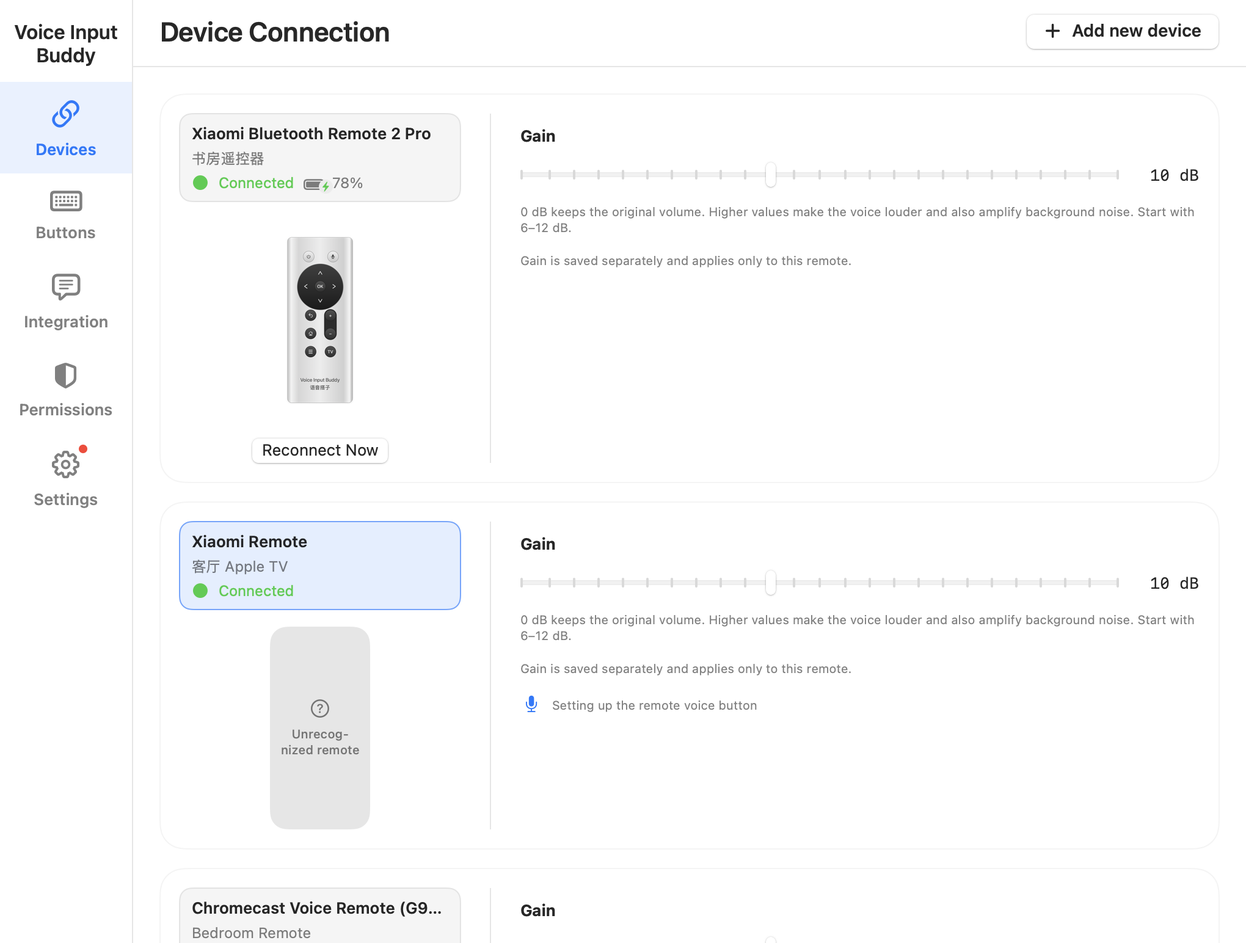
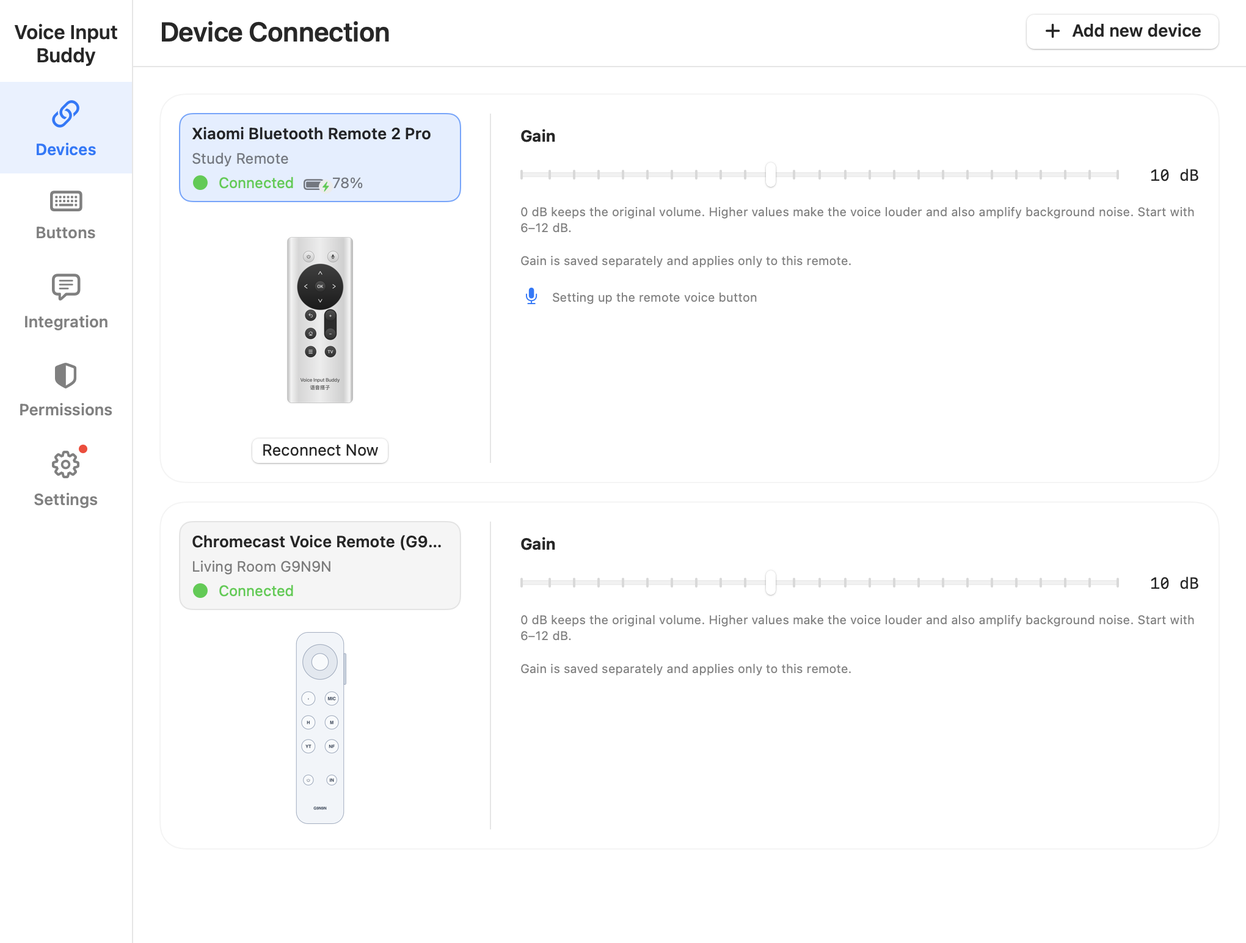
feat(website): order settings by sidebar menu and include complete 7-step wizard

diff --git a/pages/demo.js b/pages/demo.js
@@ -35,6 +35,14 @@ button.addEventListener('blur', stop);
   const galleryDataZh = {
     settings: [
       {
+        title: '设备连接',
+        badge: '多设备管理',
+        windowTitle: '设备连接 · Voice Input Buddy',
+        src: 'assets/screenshots/connection-zh.png',
+        alt: 'Voice Input Buddy 设备连接界面：小米与 Google G9N9N 遥控器卡片、连接状态、电量显示与麦克风独立增益滑块',
+        desc: '管理所有已配对的蓝牙遥控器（如小米遥控器、Google G9N9N），实时查看连接状态与电池电量；支持单独调节并保存每台遥控器的麦克风输入增益（0 dB 至 20 dB）。'
+      },
+      {
         title: '按键映射',
         badge: '核心按键映射',
         windowTitle: '按键映射 · Voice Input Buddy',
@@ -43,12 +51,12 @@ button.addEventListener('blur', stop);
         desc: '中央显示遥控器按键示意图，支持为电源键、确定键、方向键、返回键、主页键、菜单键与 TV 键分别指定单击、双击和长按动作，可绑定系统操作、自定义快捷键或常用语。'
       },
       {
-        title: '设备连接',
-        badge: '多设备管理',
-        windowTitle: '设备连接 · Voice Input Buddy',
-        src: 'assets/screenshots/connection-zh.png',
-        alt: 'Voice Input Buddy 设备连接界面：多台遥控器卡片、连接状态、电量显示与麦克风独立增益滑块',
-        desc: '管理所有已配对的蓝牙遥控器，实时查看连接状态、电池电量与充电指示；支持单独调节并保存每台遥控器的麦克风输入增益（0 dB 至 20 dB）。'
+        title: '常用语编辑',
+        badge: '常用语库管理',
+        windowTitle: '常用语调整 · Voice Input Buddy',
+        src: 'assets/screenshots/phrases-zh.png',
+        alt: 'Voice Input Buddy 常用语调整界面：遥控器五键分配、常用语库与短语编辑管理',
+        desc: '按键映射内置常用语面板管理，可为圆盘方向键与 OK 键自定义短语列表，支持中英文短语编辑、词库导入导出与五键灵活分配，高频语句一键即发。'
       },
       {
         title: '输入法集成',
@@ -59,20 +67,20 @@ button.addEventListener('blur', stop);
         desc: '提供豆包输入法、微信输入法、Typeless、Vokie、VoiceCursor 及其他自定义工具的专用配置向导入口，并可自由选择语音触发按键（Fn、Command、Option 等）与长按/点按模式。'
       },
       {
-        title: '常用语面板',
-        badge: '快速输入',
-        windowTitle: '常用语调整 · Voice Input Buddy',
-        src: 'assets/screenshots/phrases-zh.png',
-        alt: 'Voice Input Buddy 常用语调整界面：遥控器五键分配、常用语库与短语编辑管理',
-        desc: '通过遥控器圆盘方向键与 OK 键快速选择并输入预设常用语句，支持中英文短语自定义、导入导出备份与五键灵活分配，高频语句一键即发。'
-      },
-      {
         title: '权限与驱动',
         badge: '环境检测',
         windowTitle: '权限与环境 · Voice Input Buddy',
         src: 'assets/screenshots/permissions-zh.png',
         alt: 'Voice Input Buddy 权限与环境界面：蓝牙、输入监控、辅助功能权限与虚拟麦克风驱动状态',
         desc: '集中核对蓝牙、输入监控与辅助功能三项系统授权，自动监控 Voice Input Buddy Mic 虚拟麦克风驱动的加载状态，并附带直观的驱动安装与重启引导。'
+      },
+      {
+        title: '关于与更新',
+        badge: '版本与更新',
+        windowTitle: '关于与设置 · Voice Input Buddy',
+        src: 'assets/screenshots/about-zh.png',
+        alt: 'Voice Input Buddy 关于与设置界面：应用版本信息、自动检查更新、发布说明与通用卸载器',
+        desc: '查看当前 App 版本与架构（Apple 芯片 / Intel），支持通过 Sparkle 自动或手动检查更新并查看更新日志；提供开源许可证信息与通用卸载工具入口。'
       }
     ],
     wizard: [
@@ -85,7 +93,15 @@ button.addEventListener('blur', stop);
         desc: '首次打开应用时，向导逐项引导授权蓝牙、输入监控和辅助功能，确保遥控器正常通信与按键发送；左下角可随时切换中文或英文。'
       },
       {
-        title: '第 2 步 · 连接遥控器',
+        title: '第 2 步 · 设备类型',
+        badge: '向导 · 设备准备',
+        windowTitle: '设备类型 · 首次使用向导',
+        src: 'assets/screenshots/wizard-source-zh.png',
+        alt: '首次使用向导：选择控制设备类型，支持实体遥控器（小米、Google G9N9N 等）或手机输入伴侣',
+        desc: '选择你使用的硬件设备：支持小米蓝牙遥控器、Google G9N9N、Apple Siri Remote 等实体遥控器，或通过扫码使用手机作为控制与语音输入伴侣。'
+      },
+      {
+        title: '第 3 步 · 连接遥控器',
         badge: '向导 · 蓝牙配对',
         windowTitle: '连接遥控器 · 首次使用向导',
         src: 'assets/screenshots/wizard-remote-zh.png',
@@ -93,7 +109,7 @@ button.addEventListener('blur', stop);
         desc: '图文图解小米及兼容遥控器的蓝牙配对按键组合（长按 TV 键或 Home+Menu 键），靠近电脑自动发现并建立蓝牙通道。'
       },
       {
-        title: '第 3 步 · 按键测试',
+        title: '第 4 步 · 按键测试',
         badge: '向导 · 按键反馈',
         windowTitle: '按键测试 · 首次使用向导',
         src: 'assets/screenshots/wizard-controls-zh.png',
@@ -101,7 +117,7 @@ button.addEventListener('blur', stop);
         desc: '在遥控器上按下方向键或确定键，屏幕对应按键实时高亮响应，快速确认 Mac 已成功接收实体按键，避免按键占用冲突。'
       },
       {
-        title: '第 4 步 · 驱动检测',
+        title: '第 5 步 · 驱动检测',
         badge: '向导 · 声卡检查',
         windowTitle: '驱动检查 · 首次使用向导',
         src: 'assets/screenshots/wizard-driver-zh.png',
@@ -109,7 +125,7 @@ button.addEventListener('blur', stop);
         desc: '自动检测并配置随安装包安装的 Voice Input Buddy Mic 虚拟声卡驱动，固定音频输出路径，无需手动调整系统声音设备。'
       },
       {
-        title: '第 5 步 · 输入工具',
+        title: '第 6 步 · 输入工具',
         badge: '向导 · 工具匹配',
         windowTitle: '输入工具 · 首次使用向导',
         src: 'assets/screenshots/wizard-tool-zh.png',
@@ -117,7 +133,7 @@ button.addEventListener('blur', stop);
         desc: '选择你喜爱的输入法或听写工具，向导右侧分步骤提供截屏指引：从输入法麦克风选择到语音快捷键设置，轻松完成对接。'
       },
       {
-        title: '第 6 步 · 试说与校准',
+        title: '第 7 步 · 试说与校准',
         badge: '向导 · 录音测试',
         windowTitle: '语音测试 · 首次使用向导',
         src: 'assets/screenshots/wizard-test-zh.png',
@@ -130,6 +146,14 @@ button.addEventListener('blur', stop);
   const galleryDataEn = {
     settings: [
       {
+        title: 'Devices',
+        badge: 'Multi-device',
+        windowTitle: 'Devices · Voice Input Buddy',
+        src: 'assets/screenshots/connection-en.png',
+        alt: 'Voice Input Buddy Devices interface: Xiaomi and Google G9N9N remote cards, connection status, battery levels, and independent microphone gain sliders',
+        desc: 'Manage connected Bluetooth remotes (Xiaomi, Google G9N9N), check live battery percentages and charging states, and adjust individual microphone gain (0 dB to 20 dB).'
+      },
+      {
         title: 'Button Mapping',
         badge: 'Core Mapping',
         windowTitle: 'Button Mapping · Voice Input Buddy',
@@ -138,12 +162,12 @@ button.addEventListener('blur', stop);
         desc: 'The central remote diagram shows each physical button, supporting single-press, double-press, and long-press shortcuts for Power, OK, Navigation, Back, Home, Menu, and TV keys.'
       },
       {
-        title: 'Devices',
-        badge: 'Multi-device',
-        windowTitle: 'Devices · Voice Input Buddy',
-        src: 'assets/screenshots/connection-en.png',
-        alt: 'Voice Input Buddy Devices interface: remote cards, connection status, battery levels, and independent microphone gain sliders',
-        desc: 'Manage connected Bluetooth remotes, check live battery percentages and charging states, and adjust individual microphone gain (0 dB to 20 dB) for each remote.'
+        title: 'Common Phrases',
+        badge: 'Phrase Editor',
+        windowTitle: 'Common Phrases · Voice Input Buddy',
+        src: 'assets/screenshots/phrases-en.png',
+        alt: 'Voice Input Buddy Common Phrases interface: 5-way directional pad assignment and custom phrase library editor',
+        desc: 'Edit common phrase libraries inside button mapping. Assign custom phrases to directional buttons and OK button for instant text insertion, with backup import/export.'
       },
       {
         title: 'Voice Tools',
@@ -154,20 +178,20 @@ button.addEventListener('blur', stop);
         desc: 'Guided setup for Doubao, WeType, Typeless, Vokie, VoiceCursor, and custom tools, with flexible trigger key options (Fn/Globe, Command, Option).'
       },
       {
-        title: 'Common Phrases',
-        badge: 'Quick Typing',
-        windowTitle: 'Common Phrases · Voice Input Buddy',
-        src: 'assets/screenshots/phrases-en.png',
-        alt: 'Voice Input Buddy Common Phrases interface: 5-way directional pad assignment and custom phrase library',
-        desc: 'Assign phrases to directional buttons and the OK button for instant text insertion, with custom phrase editing and backup import/export.'
-      },
-      {
         title: 'Permissions & Driver',
         badge: 'System Environment',
         windowTitle: 'Permissions & Driver · Voice Input Buddy',
         src: 'assets/screenshots/permissions-en.png',
         alt: 'Voice Input Buddy Permissions interface: Bluetooth, Input Monitoring, Accessibility permissions and virtual microphone driver status',
         desc: 'Centralized overview of Bluetooth, Input Monitoring, and Accessibility permissions, along with the status and instructions for the Voice Input Buddy Mic driver.'
+      },
+      {
+        title: 'About & Updates',
+        badge: 'Version & Updates',
+        windowTitle: 'About & Settings · Voice Input Buddy',
+        src: 'assets/screenshots/about-en.png',
+        alt: 'Voice Input Buddy About interface: application version, Sparkle automatic updates, release notes, and universal uninstaller',
+        desc: 'Check app version and architecture (Apple silicon / Intel), manage automatic Sparkle updates, inspect release notes, and access the uninstaller.'
       }
     ],
     wizard: [
@@ -180,7 +204,15 @@ button.addEventListener('blur', stop);
         desc: 'Step-by-step guidance to authorize Bluetooth, Input Monitoring, and Accessibility permissions, ensuring reliable communication and key posting.'
       },
       {
-        title: 'Step 2 · Connect Remote',
+        title: 'Step 2 · Device Type',
+        badge: 'Wizard · Device Choice',
+        windowTitle: 'Control Source · Setup Wizard',
+        src: 'assets/screenshots/wizard-source-en.png',
+        alt: 'Setup Wizard: Select control hardware, supporting physical remotes (Xiaomi, Google G9N9N) or phone companion',
+        desc: 'Select your preferred control hardware: physical remotes such as Xiaomi, Google G9N9N, Apple Siri Remote, or a mobile phone companion via QR code.'
+      },
+      {
+        title: 'Step 3 · Connect Remote',
         badge: 'Wizard · Pairing',
         windowTitle: 'Connect Remote · Setup Wizard',
         src: 'assets/screenshots/wizard-remote-en.png',
@@ -188,7 +220,7 @@ button.addEventListener('blur', stop);
         desc: 'Illustrated instructions for Bluetooth pairing key combinations on Xiaomi and compatible remotes, discovering and pairing automatically.'
       },
       {
-        title: 'Step 3 · Button Test',
+        title: 'Step 4 · Button Test',
         badge: 'Wizard · Button Check',
         windowTitle: 'Button Test · Setup Wizard',
         src: 'assets/screenshots/wizard-controls-en.png',
@@ -196,7 +228,7 @@ button.addEventListener('blur', stop);
         desc: 'Press directional or OK buttons on the remote to see corresponding highlights on screen, confirming physical button delivery without key remapper conflicts.'
       },
       {
-        title: 'Step 4 · Driver Check',
+        title: 'Step 5 · Driver Check',
         badge: 'Wizard · Audio Ready',
         windowTitle: 'Driver Check · Setup Wizard',
         src: 'assets/screenshots/wizard-driver-en.png',
@@ -204,7 +236,7 @@ button.addEventListener('blur', stop);
         desc: 'Automatically checks and routes audio through the bundled Voice Input Buddy Mic driver, locking in dedicated virtual microphone output.'
       },
       {
-        title: 'Step 5 · Voice Tool',
+        title: 'Step 6 · Voice Tool',
         badge: 'Wizard · Tool Setup',
         windowTitle: 'Input Tool · Setup Wizard',
         src: 'assets/screenshots/wizard-tool-en.png',
@@ -212,7 +244,7 @@ button.addEventListener('blur', stop);
         desc: 'Choose your preferred input method or dictation tool, with step-by-step screenshots guiding microphone selection and voice shortcut keys.'
       },
       {
-        title: 'Step 6 · Voice Test & Gain',
+        title: 'Step 7 · Voice Test & Gain',
         badge: 'Wizard · Speech Test',
         windowTitle: 'Voice Test · Setup Wizard',
         src: 'assets/screenshots/wizard-test-en.png',

diff --git a/pages/index.html b/pages/index.html
@@ -33,22 +33,22 @@
 <section class="how section" id="how"><div class="wrap"><p class="eyebrow">工作原理</p><h2 class="section-title">搭一座桥，<br>让硬件和输入工具合作。</h2><div class="flow"><div><span>①</span><h3>遥控器</h3><p>麦克风音频 + 按键</p></div><b aria-hidden="true">→</b><div class="flow-buddy"><span>②</span><h3>Voice Input Buddy</h3><p>解码音频 · 触发快捷键</p></div><b aria-hidden="true">→</b><div><span>③</span><h3>输入法 / 听写工具</h3><p>识别声音 · 写入文本</p></div></div><p class="explanation">遥控器通过蓝牙传来声音，语音搭子解码后送入虚拟麦克风，同时发送对应的语音快捷键。识别、实时文字与文本修正由输入工具完成；语音搭子本身不运行识别模型。</p></div></section>
 <section class="section wrap interface-section" id="interface" aria-labelledby="interface-title">
   <div class="interface-heading">
-    <div><p class="eyebrow">macOS 原生界面</p><h2 class="section-title" id="interface-title">直观清晰，每项设置都在手边。</h2><p class="lead-sub">原生 SwiftUI 精心打造，从按键动作映射、多设备管理，到主流输入法集成与常用语速选，一目了然。</p></div>
+    <div><p class="eyebrow">macOS 原生界面</p><h2 class="section-title" id="interface-title">直观清晰，每项设置都在手边。</h2><p class="lead-sub">原生 SwiftUI 精心打造，从设备连接、按键动作映射、常用语编辑，到主流输入法集成与关于更新，一目了然。</p></div>
     <div class="gallery-category-switch" role="tablist" aria-label="界面展示分类">
-      <button class="category-btn is-active" type="button" role="tab" aria-selected="true" data-track="settings">主程序界面 (5)</button>
-      <button class="category-btn" type="button" role="tab" aria-selected="false" data-track="wizard">新手设置向导 (6)</button>
+      <button class="category-btn is-active" type="button" role="tab" aria-selected="true" data-track="settings">主程序界面 (6)</button>
+      <button class="category-btn" type="button" role="tab" aria-selected="false" data-track="wizard">新手设置向导 (7)</button>
     </div>
   </div>
   <div class="cathedral-gallery">
     <div class="gallery-stage-container" role="region" aria-label="3D 界面画廊">
       <button class="stage-nav stage-prev" type="button" aria-label="上一张界面截图">‹</button>
       <div class="gallery-stage" id="gallery-stage" tabindex="0" role="region" aria-label="界面展示舞台">
-        <div class="stage-slide slide-active" role="group" aria-label="按键映射 (1/5)">
+        <div class="stage-slide slide-active" role="group" aria-label="设备连接 (1/6)">
           <div class="window-top" aria-hidden="true">
             <div class="window-dots"><i></i><i></i><i></i></div>
-            <span class="window-title">按键映射 · Voice Input Buddy</span>
+            <span class="window-title">设备连接 · Voice Input Buddy</span>
           </div>
-          <img src="assets/screenshots/mapping-zh.png" alt="Voice Input Buddy 按键映射设置界面：可视化遥控器按键映射，支持单击、双击、长按与自定义快捷键" width="1020" height="772" loading="eager">
+          <img src="assets/screenshots/connection-zh.png" alt="Voice Input Buddy 设备连接界面：小米与 Google G9N9N 遥控器卡片、连接状态、电量显示与麦克风独立增益滑块" width="1020" height="772" loading="eager">
         </div>
       </div>
       <button class="stage-nav stage-next" type="button" aria-label="下一张界面截图">›</button>
@@ -56,10 +56,10 @@
     <div class="gallery-indicators" id="gallery-indicators" role="tablist" aria-label="截图快速选择"></div>
     <div class="gallery-caption-card" aria-live="polite">
       <div class="caption-header">
-        <span class="caption-badge" id="caption-badge">核心按键映射</span>
-        <h3 class="caption-title" id="caption-title">按键映射</h3>
+        <span class="caption-badge" id="caption-badge">多设备管理</span>
+        <h3 class="caption-title" id="caption-title">设备连接</h3>
       </div>
-      <p class="caption-desc" id="caption-desc">中央显示遥控器按键示意图，支持为电源键、确定键、方向键、返回键、主页键、菜单键与 TV 键分别指定单击、双击和长按动作，可绑定系统操作、自定义快捷键或常用语。</p>
+      <p class="caption-desc" id="caption-desc">管理所有已配对的蓝牙遥控器（如小米遥控器、Google G9N9N），实时查看连接状态与电池电量；支持单独调节并保存每台遥控器的麦克风输入增益（0 dB 至 20 dB）。</p>
       <div class="caption-hint">
         <span>💡 点击中央界面可全屏放大；可使用键盘方向键 ← / → 或左右拖拽滑动切换。</span>
       </div>
@@ -71,7 +71,7 @@
         <span class="lightbox-title" id="lightbox-title">界面预览</span>
         <button class="lightbox-close" type="button" aria-label="关闭">✕</button>
       </div>
-      <img id="lightbox-img" src="assets/screenshots/mapping-zh.png" alt="界面大图预览" width="1020" height="772">
+      <img id="lightbox-img" src="assets/screenshots/connection-zh.png" alt="界面大图预览" width="1020" height="772">
     </div>
   </dialog>
 </section>

diff --git a/pages/index.en.html b/pages/index.en.html
@@ -33,22 +33,22 @@
 <section class="how section" id="how"><div class="wrap"><p class="eyebrow">HOW IT WORKS</p><h2 class="section-title">A bridge between your hardware<br>and your input tool.</h2><div class="flow"><div><span>①</span><h3>Your remote</h3><p>Microphone audio + buttons</p></div><b aria-hidden="true">→</b><div class="flow-buddy"><span>②</span><h3>Voice Input Buddy</h3><p>Decode audio · Trigger shortcuts</p></div><b aria-hidden="true">→</b><div><span>③</span><h3>Input method / dictation tool</h3><p>Recognize speech · Enter text</p></div></div><p class="explanation">Your remote sends audio over Bluetooth. Voice Input Buddy decodes it, routes it into a virtual microphone, and triggers the voice shortcut. Recognition, live text, and corrections come from the input tool; Buddy does not run a speech-recognition model.</p></div></section>
 <section class="section wrap interface-section" id="interface" aria-labelledby="interface-title">
   <div class="interface-heading">
-    <div><p class="eyebrow">APP INTERFACE</p><h2 class="section-title" id="interface-title">Intuitive and clear. Every setting within reach.</h2><p class="lead-sub">Thoughtfully crafted with native SwiftUI. Easily map button actions, manage multiple remotes, connect favorite voice tools, and insert phrases with radial controls.</p></div>
+    <div><p class="eyebrow">APP INTERFACE</p><h2 class="section-title" id="interface-title">Intuitive and clear. Every setting within reach.</h2><p class="lead-sub">Thoughtfully crafted with native SwiftUI. Easily manage connected devices, map physical button actions, edit custom phrases, and configure voice tool integrations.</p></div>
     <div class="gallery-category-switch" role="tablist" aria-label="Interface category">
-      <button class="category-btn is-active" type="button" role="tab" aria-selected="true" data-track="settings">Main Settings (5)</button>
-      <button class="category-btn" type="button" role="tab" aria-selected="false" data-track="wizard">Setup Wizard (6)</button>
+      <button class="category-btn is-active" type="button" role="tab" aria-selected="true" data-track="settings">Main Settings (6)</button>
+      <button class="category-btn" type="button" role="tab" aria-selected="false" data-track="wizard">Setup Wizard (7)</button>
     </div>
   </div>
   <div class="cathedral-gallery">
     <div class="gallery-stage-container" role="region" aria-label="3D Interface Gallery">
       <button class="stage-nav stage-prev" type="button" aria-label="Previous screenshot">‹</button>
       <div class="gallery-stage" id="gallery-stage" tabindex="0" role="region" aria-label="Interface stage">
-        <div class="stage-slide slide-active" role="group" aria-label="Button Mapping (1/5)">
+        <div class="stage-slide slide-active" role="group" aria-label="Devices (1/6)">
           <div class="window-top" aria-hidden="true">
             <div class="window-dots"><i></i><i></i><i></i></div>
-            <span class="window-title">Button Mapping · Voice Input Buddy</span>
+            <span class="window-title">Devices · Voice Input Buddy</span>
           </div>
-          <img src="assets/screenshots/mapping-en.png" alt="Voice Input Buddy Button Mapping interface: visual remote layout mapping single, double, and long press shortcuts" width="1020" height="772" loading="eager">
+          <img src="assets/screenshots/connection-en.png" alt="Voice Input Buddy Devices interface: Xiaomi and Google G9N9N remote cards, connection status, battery levels, and independent microphone gain sliders" width="1020" height="772" loading="eager">
         </div>
       </div>
       <button class="stage-nav stage-next" type="button" aria-label="Next screenshot">›</button>
@@ -56,10 +56,10 @@
     <div class="gallery-indicators" id="gallery-indicators" role="tablist" aria-label="Quick slide selection"></div>
     <div class="gallery-caption-card" aria-live="polite">
       <div class="caption-header">
-        <span class="caption-badge" id="caption-badge">Core Mapping</span>
-        <h3 class="caption-title" id="caption-title">Button Mapping</h3>
+        <span class="caption-badge" id="caption-badge">Multi-device</span>
+        <h3 class="caption-title" id="caption-title">Devices</h3>
       </div>
-      <p class="caption-desc" id="caption-desc">The central remote diagram shows each physical button, supporting single-press, double-press, and long-press shortcuts for Power, OK, Navigation, Back, Home, Menu, and TV keys.</p>
+      <p class="caption-desc" id="caption-desc">Manage connected Bluetooth remotes (Xiaomi, Google G9N9N), check live battery percentages and charging states, and adjust individual microphone gain (0 dB to 20 dB).</p>
       <div class="caption-hint">
         <span>💡 Click active window for full-screen preview; use ← / → arrow keys or swipe horizontally to navigate.</span>
       </div>
@@ -71,7 +71,7 @@
         <span class="lightbox-title" id="lightbox-title">Interface Preview</span>
         <button class="lightbox-close" type="button" aria-label="Close">✕</button>
       </div>
-      <img id="lightbox-img" src="assets/screenshots/mapping-en.png" alt="High-resolution interface preview" width="1020" height="772">
+      <img id="lightbox-img" src="assets/screenshots/connection-en.png" alt="High-resolution interface preview" width="1020" height="772">
     </div>
   </dialog>
 </section>

diff --git a/Sources/VoiceInputBuddy/App/Testing/SettingsScreenshotRenderer.swift b/Sources/VoiceInputBuddy/App/Testing/SettingsScreenshotRenderer.swift
@@ -90,18 +90,15 @@ enum SettingsScreenshotRenderer {
             )
             settings.updateRemoteProfileModel(xiaomiID, model: .rc003)
             settings.bindHIDFingerprint("settings-screenshot-xiaomi", to: xiaomiID)
-            let appleID = settings.registerAppleSiriRemote(fingerprint: "settings-screenshot-apple-remote")
-            settings.updateRemoteProfileModel(appleID, model: .appleSiriRemoteA2854)
             let chromecastID = settings.registerChromecastRemote()
-            settings.selectRemoteProfile(appleID)
+            settings.selectRemoteProfile(xiaomiID)
             remoteCardSystemNames = [
-                xiaomiID: "书房遥控器",
-                appleID: "客厅 Apple TV",
-                chromecastID: "Bedroom Remote",
+                xiaomiID: language == .simplifiedChinese ? "书房遥控器" : "Study Remote",
+                chromecastID: language == .simplifiedChinese ? "客厅 G9N9N" : "Living Room G9N9N",
             ]
             remoteCardBatteryLevels = [
                 xiaomiID: 78,
-                chromecastID: 42,
+                chromecastID: 64,
             ]
             remoteCardPowerStates = [
                 xiaomiID: .charging,

diff --git a/scripts/generate-website-screenshots.py b/scripts/generate-website-screenshots.py
@@ -11,15 +11,17 @@ APP_PATH = ROOT / "dist/Voice Input Buddy.app/Contents/MacOS/VoiceInputBuddy"
 OUTPUT_DIR = ROOT / "pages/assets/screenshots"
 
 SETTINGS_SECTIONS = [
-    ("mapping", "mapping-1020x772.png", "mapping"),
     ("connection", "connection-1020x772.png", "connection"),
-    ("integration", "integration-1020x772.png", "integration"),
+    ("mapping", "mapping-1020x772.png", "mapping"),
     ("commonPhrases", "commonPhrases-1020x772.png", "phrases"),
+    ("integration", "integration-1020x772.png", "integration"),
     ("permissions", "permissions-1020x772.png", "permissions"),
+    ("about", "about-1020x772.png", "about"),
 ]
 
 ONBOARDING_STEPS = [
     ("01-permissions.png", "wizard-permissions"),
+    ("02-control-source.png", "wizard-source"),
     ("03-remote.png", "wizard-remote"),
     ("04-controls.png", "wizard-controls"),
     ("05-audio.png", "wizard-driver"),

diff --git a/docs/website.md b/docs/website.md
@@ -14,7 +14,7 @@ python3 -m http.server 8765 --directory pages
 
 页面中的麦克风按钮示意仅改变本地显示，不申请麦克风权限、不录音，也不发起网络请求；页面及视频资源加载仍会产生正常 HTTP 请求。网站不使用分析或追踪脚本。下载链接指向 GitHub 最新 Release。
 
-中英文页面的 `#interface` 区域提供程序界面的 3D 画廊（Cathedral 效果）交互式展示，分为“主程序界面”（按键映射、设备连接、输入法集成、常用语面板、权限与驱动）与“新手设置向导”（系统权限、连接遥控器、按键测试、驱动检查、输入工具、试说与校准）两个分类。支持 3D 舞台层叠切换、左右拖拽/手势、键盘方向键切换及点击全屏放大查看高清细节。截图资产位于 `pages/assets/screenshots/`，包含中英文版本。可通过 `python3 scripts/generate-website-screenshots.py` 自动由 Debug App 渲染设置窗口与向导各步骤，并无损优化 PNG。
+中英文页面的 `#interface` 区域提供程序界面的 3D 画廊（Cathedral 效果）交互式展示，分为“主程序界面”（按左侧菜单从上到下展示：设备连接、按键映射、常用语编辑、输入法集成、权限与驱动、关于与更新，共 6 张，设备连接卡片展示小米与 Google G9N9N 遥控器）与“新手设置向导”（系统权限、设备类型、连接遥控器、按键测试、驱动检查、输入工具、试说与校准，共 7 步）两个分类。支持 3D 舞台层叠切换、左右拖拽/手势、键盘方向键切换及点击全屏放大查看高清细节。截图资产位于 `pages/assets/screenshots/`，包含中英文版本。可通过 `python3 scripts/generate-website-screenshots.py` 自动由 Debug App 渲染设置窗口与向导各步骤，并无损优化 PNG。
 
 中英文页面的 `#demo` 区域提供两分钟卡通视频。MP4、封面和可选中文字幕轨道位于
 `pages/assets/video/`，由 Pages 一起部署。视频为中文旁白与画内中文字幕；英文页面明确标注视频语言。
